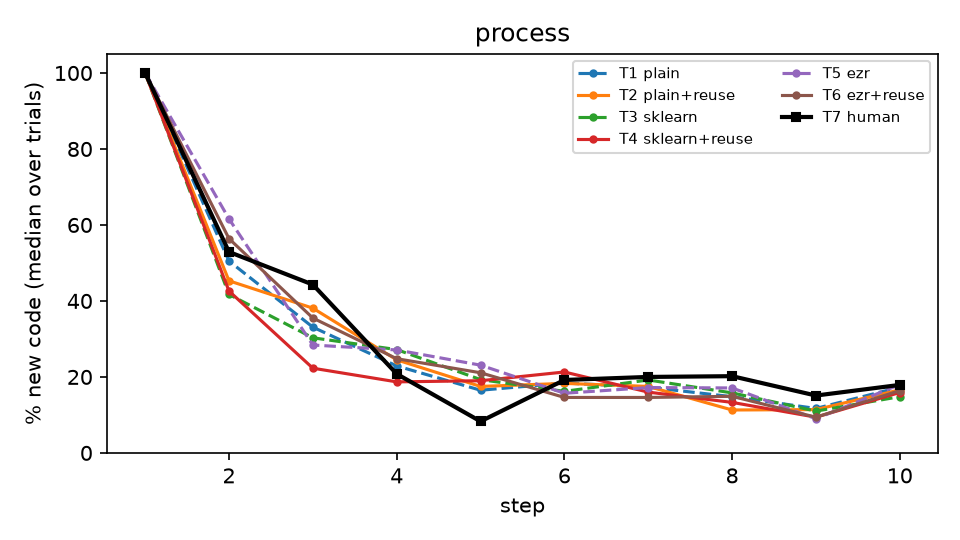
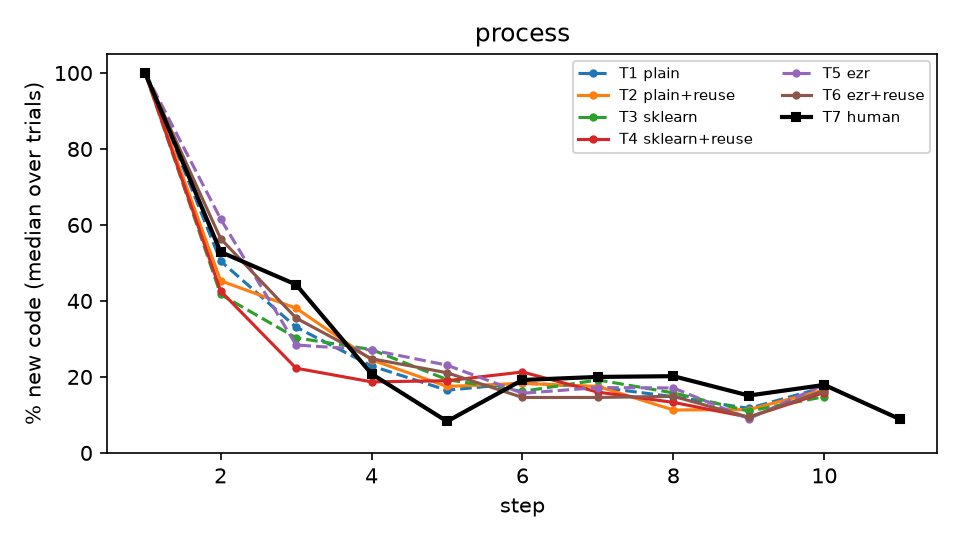
t7 process step 11 (remember): past setups nearest a proposal, ranked by step 1

diff --git a/t7/process/step11.py b/t7/process/step11.py
@@ -1,0 +1,31 @@
+import ezr 
+from step01 import remember 
+from load import loading_data
+from neighbours import nearest_rows
+
+if __name__ == "__main__" : 
+    header, rows = loading_data("pom3a.n1000.train.csv")
+    proposal = rows[-1].copy()
+    past = rows[:-1]
+    table = ezr.Tbl([header] + past)
+    for col in table.y : 
+        proposal[col.at] = "?"
+
+    near = nearest_rows(table, past, proposal, k =40)
+    original_pos = {id(row) : position for position, row in enumerate(past)}
+
+
+    print("Past Setups: ")
+    for row in near : 
+        print("Row", original_pos[id(row)])
+        for col in table.y : 
+            print(col.txt, "," , row[col.at])
+
+    print("best setups among neighbours")
+    best = remember(header, near)
+
+
+    for position in best : 
+        row = near[position]
+        print(original_pos[id(row)])
+

diff --git a/results/report.md b/results/report.md
@@ -1,6 +1,6 @@
 # Results
 
-190 calls logged, 190 scored, up to 1 trials. Generated by `rig/report.py`; do not edit by hand.
+191 calls logged, 191 scored, up to 1 trials. Generated by `rig/report.py`; do not edit by hand.
 
 In every table a number in brackets is a rank. Rank 0 is the best group. Treatments that share a rank are not distinguishable: `same` (Cliff's delta, Kolmogorov-Smirnov, Cohen at 0.35) could not tell them apart.
 
@@ -182,7 +182,7 @@ Z (Q rescaled within each skill; higher is better):
 
 ## process
 
-70 calls; 70 returned a file; 66 were scored without error (the rest earn the failure value).
+71 calls; 71 returned a file; 67 were scored without error (the rest earn the failure value).
 
 ![% new code per step](fig/process.png)
 
@@ -198,21 +198,21 @@ Competency (lecturer's A23): if a treatment's functions mostly fail, its other n
 | T4 sklearn+reuse | 10 | 8 | 10 (100%) | 6 (60%) | 483 | 0.07M | 0.01M | $0.03 | 1 |
 | T5 ezr | 10 | 9 | 8 (80%) | 7 (70%) | 422 | 0.13M | 0.01M | $0.05 | 1 |
 | T6 ezr+reuse | 10 | 8 | 8 (80%) | 8 (80%) | 434 | 0.12M | 0.01M | $0.04 | 1 |
-| T7 human | 10 | 10 | 10 (100%) | 10 (100%) | 234 | 0 | 0 | $0.00 | 323 (human) |
+| T7 human | 11 | 11 | 11 (100%) | 11 (100%) | 257 | 0 | 0 | $0.00 | 323 (human) |
 
 ### New lines of code per step (lower is better)
 
 Median over the trials that returned a file; a blank cell means none did. Few lines is only reuse if Q held up: check the next table.
 
-| treatment | s1 | s2 | s3 | s4 | s5 | s6 | s7 | s8 | s9 | s10 |
-|---|--:|--:|--:|--:|--:|--:|--:|--:|--:|--:|
-| T1 plain | 49 (4) | 50 (5) | 49 (5) | 44 (4) | 38 (1) | 52 (5) | 59 (5) | 59 (4) | 53 (5) | 95 (6) |
-| T2 plain+reuse | 47 (3) | 39 (1) | 53 (6) | 45 (5) | 39 (2) | 50 (3) | 58 (4) | 42 (1) | 48 (4) | 84 (4) |
-| T3 sklearn | 63 (6) | 45 (3) | 47 (4) | 58 (6) | 51 (6) | 51 (4) | 75 (6) | 73 (5) | 57 (6) | 90 (5) |
-| T4 sklearn+reuse | 62 (5) | 46 (4) | 31 (2) | 32 (1) | 40 (3) | 57 (6) | 51 (3) | 49 (2) | 38 (3) | 77 (3) |
-| T5 ezr | 28 (1) | 45 (3) | 29 (1) | 38 (2) | 42 (4) | 34 (1) | 45 (2) | 54 (3) | 31 (1) | 76 (2) |
-| T6 ezr+reuse | 34 (2) | 44 (2) | 43 (3) | 40 (3) | 43 (5) | 35 (2) | 41 (1) | 49 (2) | 34 (2) | 71 (1) |
-| T7 human | 16 (0) | 18 (0) | 27 (0) | 16 (0) | 7 (0) | 20 (0) | 26 (0) | 33 (0) | 29 (0) | 42 (0) |
+| treatment | s1 | s2 | s3 | s4 | s5 | s6 | s7 | s8 | s9 | s10 | s11 |
+|---|--:|--:|--:|--:|--:|--:|--:|--:|--:|--:|--:|
+| T1 plain | 49 (4) | 50 (5) | 49 (5) | 44 (4) | 38 (1) | 52 (5) | 59 (5) | 59 (4) | 53 (5) | 95 (6) |  |
+| T2 plain+reuse | 47 (3) | 39 (1) | 53 (6) | 45 (5) | 39 (2) | 50 (3) | 58 (4) | 42 (1) | 48 (4) | 84 (4) |  |
+| T3 sklearn | 63 (6) | 45 (3) | 47 (4) | 58 (6) | 51 (6) | 51 (4) | 75 (6) | 73 (5) | 57 (6) | 90 (5) |  |
+| T4 sklearn+reuse | 62 (5) | 46 (4) | 31 (2) | 32 (1) | 40 (3) | 57 (6) | 51 (3) | 49 (2) | 38 (3) | 77 (3) |  |
+| T5 ezr | 28 (1) | 45 (3) | 29 (1) | 38 (2) | 42 (4) | 34 (1) | 45 (2) | 54 (3) | 31 (1) | 76 (2) |  |
+| T6 ezr+reuse | 34 (2) | 44 (2) | 43 (3) | 40 (3) | 43 (5) | 35 (2) | 41 (1) | 49 (2) | 34 (2) | 71 (1) |  |
+| T7 human | 16 (0) | 18 (0) | 27 (0) | 16 (0) | 7 (0) | 20 (0) | 26 (0) | 33 (0) | 29 (0) | 42 (0) | 23 (0) |
 
 ### Per skill, on the test suite (higher is better)
 
@@ -220,7 +220,7 @@ Mean over test cases, pooled over trials, with rank. Every treatment faced the s
 
 | skill | cases | T1 plain | T2 plain+reuse | T3 sklearn | T4 sklearn+reuse | T5 ezr | T6 ezr+reuse | T7 human |
 |---|--:|--:|--:|--:|--:|--:|--:|--:|
-| remember | 10 | 0.74 (0) | 0.74 (0) | 0.74 (0) | 0.73 (0) | 0.74 (0) | 0.74 (0) | 0.74 (0) |
+| remember | 20 | 0.74 (0) | 0.74 (0) | 0.74 (0) | 0.73 (0) | 0.74 (0) | 0.74 (0) | 0.74 (0) |
 | guess | 200 | 0.38 (1) | 0.14 (2) | 0.56 (0) | 0.56 (0) | 0.43 (1) | 0.43 (1) | 0.57 (0) |
 | certify | 200 | 0.80 (0) | 0.80 (0) | 0.84 (0) | 0.84 (0) | 0.84 (0) | 0.84 (0) | 0.84 (0) |
 | flow | 100 | -0.02 (3) | 0.29 (2) | -0.04 (3) | 0.41 (1) | 0.44 (1) | 0.44 (1) | 0.56 (0) |
@@ -236,15 +236,15 @@ Mean over test cases, pooled over trials, with rank. Every treatment faced the s
 
 Each step is a different skill with its own scale, so compare down a column, not along a row.
 
-| treatment | s1 | s2 | s3 | s4 | s5 | s6 | s7 | s8 | s9 | s10 |
-|---|--:|--:|--:|--:|--:|--:|--:|--:|--:|--:|
-| T1 plain | 0.74 (0) | 0.38 (3) | 0.80 (2) | -0.02 (4) | -0.02 (4) | 0.21 (4) | 0.43 (3) | 0.00 (1) | 0.50 (0) | 0.48 (1) |
-| T2 plain+reuse | 0.74 (0) | 0.14 (4) | 0.80 (2) | 0.29 (3) | -0.03 (5) | 0.64 (0) | 0.50 (1) | 1.00 (0) | 0.39 (1) | 0.45 (2) |
-| T3 sklearn | 0.74 (0) | 0.56 (1) | 0.84 (1) | -0.04 (5) | 0.05 (2) | 0.22 (3) | 0.45 (2) | 1.00 (0) | 0.39 (1) | 0.43 (3) |
-| T4 sklearn+reuse | 0.73 (2) | 0.56 (1) | 0.84 (1) | 0.41 (2) | -0.03 (5) | 0.58 (1) | 0.38 (4) | 0.00 (1) | 0.25 (2) | 0.35 (4) |
-| T5 ezr | 0.74 (1) | 0.43 (2) | 0.84 (0) | 0.44 (1) | 0.06 (0) | 0.13 (5) | 0.00 (5) | 0.00 (1) | 0.07 (3) | 0.00 (5) |
-| T6 ezr+reuse | 0.74 (1) | 0.43 (2) | 0.84 (0) | 0.44 (1) | 0.03 (3) | 0.13 (5) | 0.00 (5) | 1.00 (0) | 0.03 (4) | 0.00 (5) |
-| T7 human | 0.74 (1) | 0.57 (0) | 0.84 (0) | 0.56 (0) | 0.05 (1) | 0.40 (2) | 0.68 (0) | 1.00 (0) | 0.50 (0) | 0.68 (0) |
+| treatment | s1 | s2 | s3 | s4 | s5 | s6 | s7 | s8 | s9 | s10 | s11 |
+|---|--:|--:|--:|--:|--:|--:|--:|--:|--:|--:|--:|
+| T1 plain | 0.74 (0) | 0.38 (3) | 0.80 (2) | -0.02 (4) | -0.02 (4) | 0.21 (4) | 0.43 (3) | 0.00 (1) | 0.50 (0) | 0.48 (1) |  |
+| T2 plain+reuse | 0.74 (0) | 0.14 (4) | 0.80 (2) | 0.29 (3) | -0.03 (5) | 0.64 (0) | 0.50 (1) | 1.00 (0) | 0.39 (1) | 0.45 (2) |  |
+| T3 sklearn | 0.74 (0) | 0.56 (1) | 0.84 (1) | -0.04 (5) | 0.05 (2) | 0.22 (3) | 0.45 (2) | 1.00 (0) | 0.39 (1) | 0.43 (3) |  |
+| T4 sklearn+reuse | 0.73 (2) | 0.56 (1) | 0.84 (1) | 0.41 (2) | -0.03 (5) | 0.58 (1) | 0.38 (4) | 0.00 (1) | 0.25 (2) | 0.35 (4) |  |
+| T5 ezr | 0.74 (1) | 0.43 (2) | 0.84 (0) | 0.44 (1) | 0.06 (0) | 0.13 (5) | 0.00 (5) | 0.00 (1) | 0.07 (3) | 0.00 (5) |  |
+| T6 ezr+reuse | 0.74 (1) | 0.43 (2) | 0.84 (0) | 0.44 (1) | 0.03 (3) | 0.13 (5) | 0.00 (5) | 1.00 (0) | 0.03 (4) | 0.00 (5) |  |
+| T7 human | 0.74 (1) | 0.57 (0) | 0.84 (0) | 0.56 (0) | 0.05 (1) | 0.40 (2) | 0.68 (0) | 1.00 (0) | 0.50 (0) | 0.68 (0) | 0.74 (0) |
 
 ### Over all steps
 
@@ -252,7 +252,7 @@ New lines:
 
 | treatment | n | median | sd | rank |
 |---|--:|--:|--:|--:|
-| T7 human | 10 | 23 | 10 | 0 |
+| T7 human | 11 | 23 | 9 | 0 |
 | T5 ezr | 10 | 40 | 14 | 1 |
 | T6 ezr+reuse | 10 | 42 | 10 | 1 |
 | T2 plain+reuse | 10 | 48 | 13 | 2 |
@@ -264,11 +264,11 @@ Z (Q rescaled within each skill; higher is better):
 
 | treatment | n | median | sd | rank |
 |---|--:|--:|--:|--:|
-| T7 human | 10 | 0.94 | 0.44 | 0 |
-| T2 plain+reuse | 10 | 0.47 | 1.14 | 1 |
-| T3 sklearn | 10 | 0.48 | 0.74 | 1 |
-| T1 plain | 10 | -0.53 | 0.93 | 2 |
-| T4 sklearn+reuse | 10 | 0.09 | 1.02 | 2 |
+| T7 human | 11 | 0.93 | 0.51 | 0 |
+| T2 plain+reuse | 10 | 0.47 | 1.15 | 1 |
+| T3 sklearn | 10 | 0.48 | 0.75 | 1 |
+| T1 plain | 10 | -0.53 | 0.94 | 2 |
+| T4 sklearn+reuse | 10 | 0.09 | 1.05 | 2 |
 | T5 ezr | 10 | -0.55 | 0.96 | 2 |
 | T6 ezr+reuse | 10 | -0.07 | 0.92 | 2 |
 
@@ -284,7 +284,7 @@ Z (Q rescaled within each skill; higher is better):
 | T4 sklearn+reuse | 30 | 28 | 28 (93%) | 20 (66%) | 1468 | 0.18M | 0.03M | $0.09 | 3 |
 | T5 ezr | 30 | 28 | 25 (83%) | 22 (73%) | 1308 | 0.38M | 0.03M | $0.14 | 2 |
 | T6 ezr+reuse | 30 | 27 | 26 (86%) | 22 (73%) | 1240 | 0.37M | 0.03M | $0.13 | 2 |
-| T7 human | 10 | 10 | 10 (100%) | 10 (100%) | 234 | 0 | 0 | $0.00 | 323 (human) |
+| T7 human | 11 | 11 | 11 (100%) | 11 (100%) | 257 | 0 | 0 | $0.00 | 323 (human) |
 
 ### Transfer across domains (T7)
 
@@ -292,17 +292,17 @@ Treatment 7 across domains. Shared code (`t7/shared/`, 8 files) is available to 
 
 | domain | steps | lines written for it | shared lines | shared share |
 |---|--:|--:|--:|--:|
-| process | 10 | 234 | 225 | 49% |
+| process | 11 | 257 | 225 | 46% |
 
 Z is computed within each (domain, skill), then pooled.
 
 | treatment | n | median | sd | rank |
 |---|--:|--:|--:|--:|
-| T7 human | 10 | 0.94 | 0.44 | 0 |
+| T7 human | 11 | 0.93 | 0.51 | 0 |
 | T2 plain+reuse | 30 | 0.64 | 0.99 | 1 |
 | T3 sklearn | 30 | 0.57 | 0.68 | 1 |
 | T1 plain | 30 | 0.41 | 0.97 | 2 |
-| T4 sklearn+reuse | 30 | 0.11 | 0.96 | 2 |
+| T4 sklearn+reuse | 30 | 0.11 | 0.97 | 2 |
 | T5 ezr | 30 | -0.80 | 1.05 | 3 |
 | T6 ezr+reuse | 30 | -0.76 | 1.04 | 3 |
 
@@ -310,7 +310,7 @@ New lines, pooled:
 
 | treatment | n | median | sd | rank |
 |---|--:|--:|--:|--:|
-| T7 human | 10 | 23 | 10 | 0 |
+| T7 human | 11 | 23 | 9 | 0 |
 | T5 ezr | 30 | 40 | 15 | 1 |
 | T6 ezr+reuse | 30 | 38 | 13 | 1 |
 | T4 sklearn+reuse | 30 | 46 | 10 | 2 |
